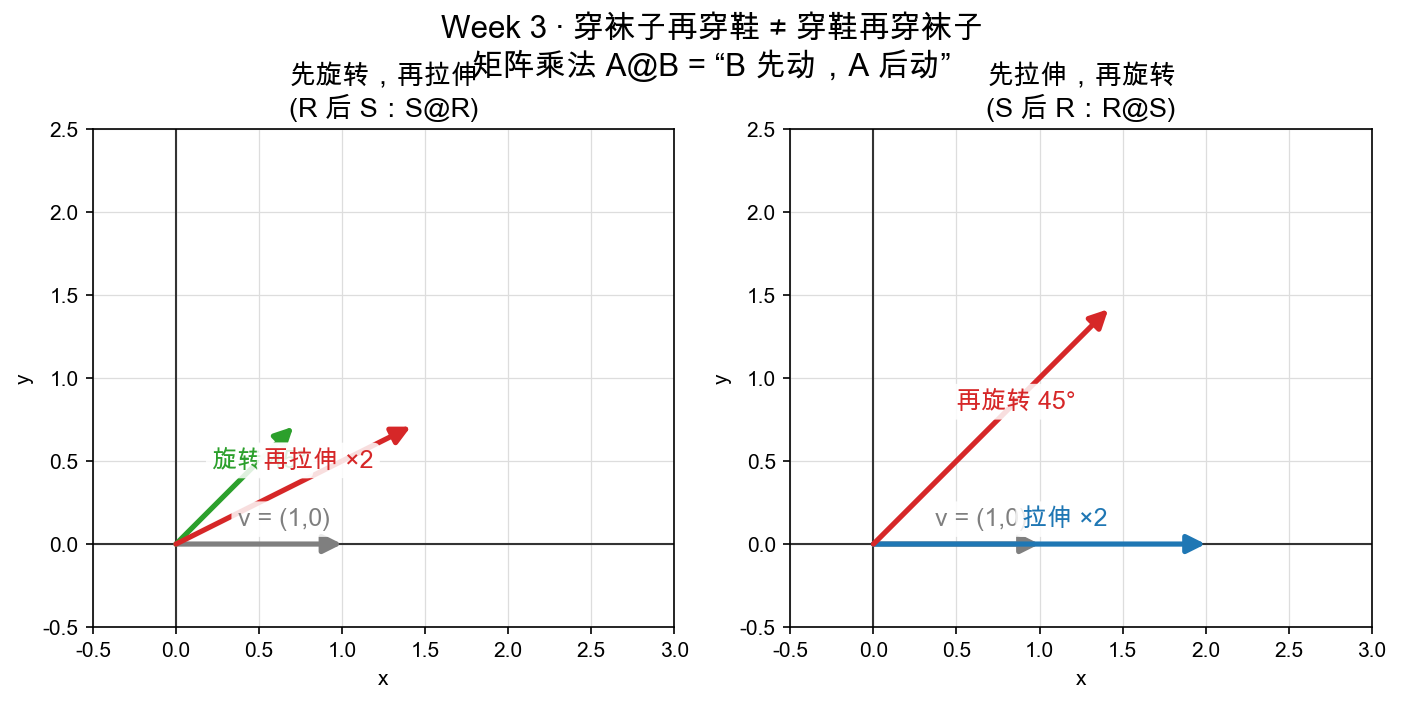
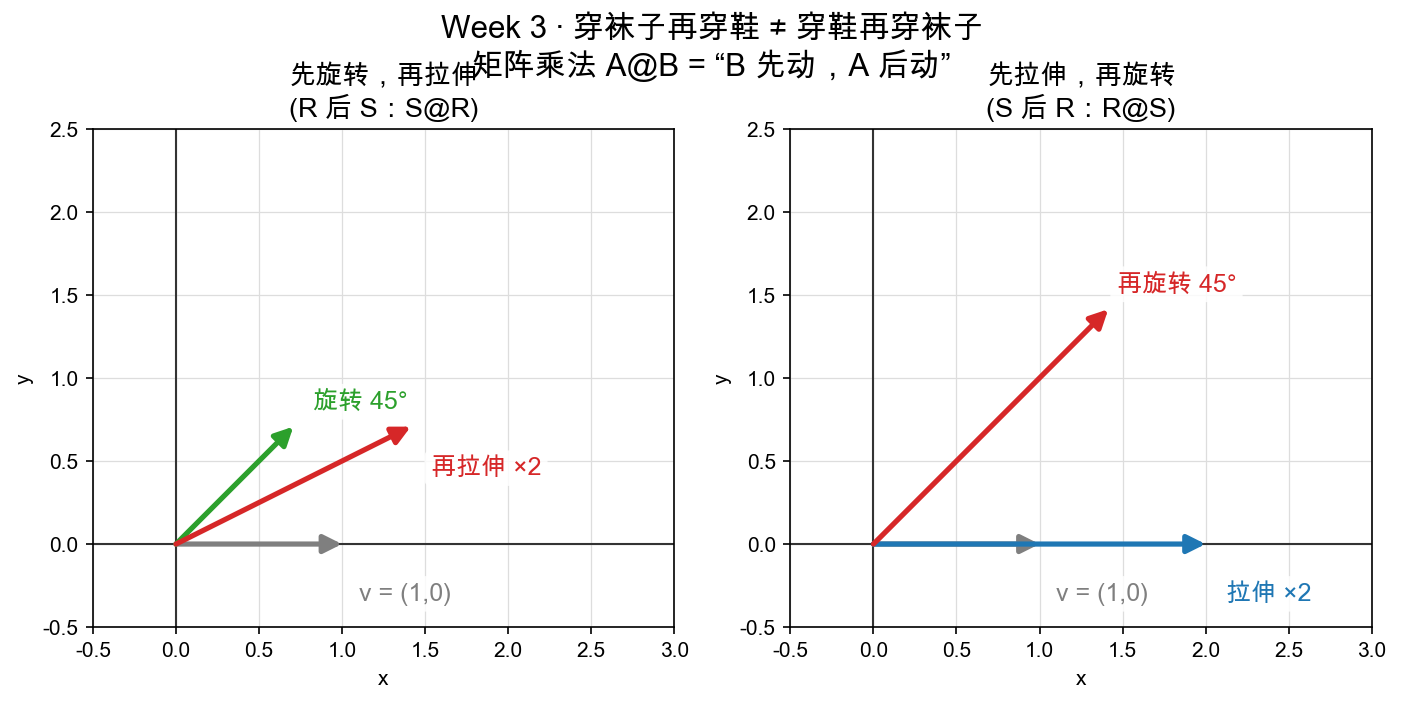
配图防重叠优化：全 27 张图标签加白底/移出箭杆；修正 Week 8 损失数值表述与断链

diff --git a/figures/gen_w4d2_relative_motion.py b/figures/gen_w4d2_relative_motion.py
@@ -12,8 +12,8 @@ for ax in (ax1, ax2):
 
 # 左：点动（坐标系不动）
 axes(ax1, xlim=(-0.5, 5), ylim=(-0.5, 5))
-point(ax1, (1, 1), color=C_BLUE, label="(1,1)")
-point(ax1, (2, 3), color=C_RED, label="(2,3)")
+point(ax1, (1, 1), color=C_BLUE, label="(1,1)", label_offset=(0.15, 0.15))
+point(ax1, (2, 3), color=C_RED, label="(2,3)", label_offset=(0.15, 0.15))
 ax1.annotate("", xy=(2, 3), xytext=(1, 1),
              arrowprops=dict(arrowstyle="-|>", color=C_RED, lw=2))
 ax1.set_title("方式一：点动\n把 (1,1) 挪到 (2,3)", fontsize=13)
@@ -22,18 +22,23 @@ ax1.set_title("方式一：点动\n把 (1,1) 挪到 (2,3)", fontsize=13)
 # 孟岩原例：点物理上还在 (1,1)，但新刻度把"1"标成"2"、"3"，
 # 于是同一个点的读数从 (1,1) 变成 (2,3)。
 axes(ax2, xlim=(-0.5, 5), ylim=(-0.5, 5))
-point(ax2, (1, 1), color=C_RED, label="点没动，物理位置还是 (1,1)")
+point(ax2, (1, 1), color=C_RED, label="点没动，物理位置还是 (1,1)",
+      label_offset=(0.35, 0.35))
 # 旧刻度（标准尺）淡色保留
 for k in range(1, 5):
     ax2.plot([k, k], [-0.06, 0.06], color="#bbbbbb", lw=1)
     ax2.plot([-0.06, 0.06], [k, k], color="#bbbbbb", lw=1)
 # 新刻度：原来标 1 的地方现在标 2（x 轴）、标 3（y 轴）
 ax2.scatter([1], [0], color="#888888", s=40, zorder=6)
-ax2.text(1, -0.4, "新刻度“2”", color="#888888", ha="center", fontsize=11)
+ax2.text(1, -0.45, "新刻度“2”", color="#888888", ha="center", fontsize=11,
+         bbox=dict(boxstyle="round,pad=0.2", fc="white", ec="none", alpha=0.85))
 ax2.scatter([0], [1], color="#888888", s=40, zorder=6)
-ax2.text(-0.32, 1, "新刻度“3”", color="#888888", va="center", fontsize=11)
-ax2.text(2.9, 1.6, "新尺子读数 = (2,3)\n（x 单位缩到 1/2，y 缩到 1/3）",
-         color=C_RED, fontsize=11)
+ax2.text(-0.75, 1, "新刻度“3”", color="#888888", va="center", fontsize=11,
+         bbox=dict(boxstyle="round,pad=0.2", fc="white", ec="none", alpha=0.85))
+ax2.text(2.7, 1.4, "新尺子读数 = (2,3)\n（x 单位缩到 1/2，y 缩到 1/3）",
+         color=C_RED, fontsize=11,
+         bbox=dict(boxstyle="round,pad=0.25", fc="white", ec="none", alpha=0.85),
+         zorder=6)
 ax2.set_title("方式二：尺子动\n刻度变细，点的读数自然变成 (2,3)", fontsize=13)
 
 fig.suptitle("Week 4 · 运动是相对的：变换对象 等价于 变换坐标系", fontsize=15)

diff --git a/figures/gen_w5d4_embedding_scatter.py b/figures/gen_w5d4_embedding_scatter.py
@@ -25,10 +25,14 @@ axes(ax, xlim=(-4, 4), ylim=(-3.5, 4.5))
 
 for w, p in words.items():
     ax.scatter([p[0]], [p[1]], color=C_GRAY, s=60, zorder=5)
-    ax.text(p[0] + 0.12, p[1] + 0.12, w, fontsize=12, color="#444444")
+    ax.text(p[0] + 0.12, p[1] + 0.12, w, fontsize=12, color="#444444",
+            bbox=dict(boxstyle="round,pad=0.15", fc="white", ec="none", alpha=0.8),
+            zorder=6)
 
 ax.scatter([q[0]], [q[1]], color=C_RED, s=90, zorder=6, marker="*")
-ax.text(q[0] + 0.15, q[1] + 0.15, f"{query}（查询）", color=C_RED, fontsize=12)
+ax.text(q[0] + 0.15, q[1] + 0.15, f"{query}（查询）", color=C_RED, fontsize=12,
+        bbox=dict(boxstyle="round,pad=0.15", fc="white", ec="none", alpha=0.85),
+        zorder=7)
 
 # 找最近邻
 names = list(words.keys())
@@ -36,14 +40,16 @@ vecs = list(words.values())
 best = names[nearest_index(q, vecs)]
 p = words[best]
 ax.plot([q[0], p[0]], [q[1], p[1]], color=C_ORANGE, lw=2, ls="--")
-ax.text((q[0] + p[0]) / 2 + 0.2, (q[1] + p[1]) / 2,
-        f"cos = {cosine_similarity(q, p):.2f}", color=C_ORANGE, fontsize=11)
+ax.text((q[0] + p[0]) / 2 + 0.2, (q[1] + p[1]) / 2 + 0.35,
+        f"cos = {cosine_similarity(q, p):.2f}", color=C_ORANGE, fontsize=11,
+        bbox=dict(boxstyle="round,pad=0.15", fc="white", ec="none", alpha=0.85))
 
 # 对照：与"汽车"的夹角大得多
 p2 = words["汽车"]
 ax.plot([q[0], p2[0]], [q[1], p2[1]], color=C_BLUE, lw=1.5, ls=":")
-ax.text((q[0] + p2[0]) / 2 - 1.6, (q[1] + p2[1]) / 2,
-        f"cos = {cosine_similarity(q, p2):.2f}", color=C_BLUE, fontsize=11)
+ax.text((q[0] + p2[0]) / 2 - 1.6, (q[1] + p2[1]) / 2 + 0.3,
+        f"cos = {cosine_similarity(q, p2):.2f}", color=C_BLUE, fontsize=11,
+        bbox=dict(boxstyle="round,pad=0.15", fc="white", ec="none", alpha=0.85))
 
 ax.set_title(f"Week 5 · “{query}”与“{best}”夹角最小 → 最相似\n相似度不看距离长短，只看方向（夹角）", fontsize=13)
 save(fig, "w5d4_embedding_scatter.png")

diff --git a/figures/gen_w4d1_two_readings.py b/figures/gen_w4d1_two_readings.py
@@ -15,20 +15,24 @@ for ax in (ax1, ax2):
 # 左：变换读法 —— M 把 v 搬到 Mv
 axes(ax1, xlim=(-0.5, 6), ylim=(-0.5, 6))
 v = (1, 1)
-vec(ax1, (0, 0), v, color=C_BLUE, label="v = (1,1)")
-vec(ax1, (0, 0), (2, 3), color=C_RED, label="Mv = (2,3)")
+vec(ax1, (0, 0), v, color=C_BLUE, label="v = (1,1)",
+    label_at_tip=True, label_offset=(0.15, -0.3))
+vec(ax1, (0, 0), (2, 3), color=C_RED, label="Mv = (2,3)",
+    label_at_tip=True, label_offset=(0.2, -0.2))
 ax1.set_title("读法 1：变换\nv 被 M 搬到 Mv", fontsize=13)
 
 # 右：坐标系读法 —— M 的列是两根新坐标轴
 axes(ax2, xlim=(-0.5, 6), ylim=(-0.5, 6))
-vec(ax2, (0, 0), (M[0][0], M[1][0]), color=C_GREEN, label="新 x 轴（刻度=2）")
+vec(ax2, (0, 0), (M[0][0], M[1][0]), color=C_GREEN, label="新 x 轴（刻度=2）",
+    label_at_tip=True, label_offset=(0.15, -0.35))
 vec(ax2, (0, 0), (M[0][1], M[1][1]), color=C_PURPLE,
-    label="新 y 轴（刻度=3）")
+    label="新 y 轴（刻度=3）", label_at_tip=True, label_offset=(-0.25, 0.2))
 # 新尺子下的网格
 for s in (1, 2):
     ax2.plot([s * 2, s * 2], [0, 6], color="#c8b5e0", lw=0.8, ls="--")
     ax2.plot([0, 6], [s * 3, s * 3], color="#c8b5e0", lw=0.8, ls="--")
-point(ax2, (2, 3), color=C_RED, label="新尺子读数 (1,1)\n= 标准读数 (2,3)")
+point(ax2, (2, 3), color=C_RED, label="新尺子读数 (1,1)\n= 标准读数 (2,3)",
+      label_offset=(0.3, 0.3))
 ax2.set_title("读法 2：坐标系\nM 的列向量 = 两根新坐标轴", fontsize=13)
 
 fig.suptitle("Week 4 · 变换点，还是变换尺子？—— 结果一样", fontsize=15)

diff --git a/figures/gen_w6d3_softmax.py b/figures/gen_w6d3_softmax.py
@@ -17,9 +17,11 @@ bars1 = ax1.bar(labels, scores, color=C_BLUE, alpha=0.8)
 ax1.axhline(0, color="#333333", lw=1)
 ax1.set_title("原始分数 Q·K：可正可负，加起来不是 1", fontsize=13)
 ax1.set_ylabel("分数")
+# 给负柱也留出底部空间，避免数值标签压到 x 轴刻度
+ax1.set_ylim(-2.6, 3.0)
 for b, s in zip(bars1, scores):
-    ax1.text(b.get_x() + b.get_width() / 2, s + (0.08 if s >= 0 else -0.28),
-             f"{s}", ha="center", fontsize=12)
+    ax1.text(b.get_x() + b.get_width() / 2, s + (0.08 if s >= 0 else -0.18),
+             f"{s}", ha="center", fontsize=12, color="#333333")
 
 bars2 = ax2.bar(labels, weights, color=C_ORANGE, alpha=0.85)
 ax2.set_ylim(0, 1.05)
@@ -27,9 +29,10 @@ ax2.set_title("softmax 之后：都是正数，加起来 = 1\n（“总注意力
 ax2.set_ylabel("权重")
 for b, w in zip(bars2, weights):
     ax2.text(b.get_x() + b.get_width() / 2, b.get_height() + 0.02,
-             f"{w:.2f}", ha="center", fontsize=12)
-ax2.text(0.02, 0.92, "0.01 + 0.05 + 0.94 = 1.00", transform=ax2.transAxes,
-         fontsize=12, color="#333333")
+             f"{w:.2f}", ha="center", fontsize=12, color="#333333")
+# 求和说明挪到右上角空白处，避免压住中间 0.94 柱的数值
+ax2.text(0.98, 0.93, "0.01 + 0.05 + 0.94 = 1.00", transform=ax2.transAxes,
+         fontsize=12, color="#333333", ha="right", va="top")
 
 fig.suptitle("Week 6 · softmax：分数最大的分到几乎全部注意力", fontsize=15)
 save(fig, "w6d3_softmax.png")

diff --git a/figures/gen_w3d3_compose.py b/figures/gen_w3d3_compose.py
@@ -18,17 +18,23 @@ for ax in (ax1, ax2):
 v = (1, 0)
 mid = matvec(R, v)
 fin = matvec(S, mid)
-vec(ax1, (0, 0), v, color=C_GRAY, label="v = (1,0)")
-vec(ax1, (0, 0), mid, color=C_GREEN, label="旋转 45°")
-vec(ax1, (0, 0), fin, color=C_RED, label="再拉伸 ×2")
+vec(ax1, (0, 0), v, color=C_GRAY, label="v = (1,0)",
+    label_at_tip=True, label_offset=(0.1, -0.3))
+vec(ax1, (0, 0), mid, color=C_GREEN, label="旋转 45°",
+    label_at_tip=True, label_offset=(0.12, 0.15))
+vec(ax1, (0, 0), fin, color=C_RED, label="再拉伸 ×2",
+    label_at_tip=True, label_offset=(0.12, -0.25))
 ax1.set_title("先旋转，再拉伸\n(R 后 S：S@R)", fontsize=13)
 
 # 右：先横向拉伸 2 倍，再旋转 45°
 mid2 = matvec(S, v)
 fin2 = matvec(R, mid2)
-vec(ax2, (0, 0), v, color=C_GRAY, label="v = (1,0)")
-vec(ax2, (0, 0), mid2, color=C_BLUE, label="拉伸 ×2")
-vec(ax2, (0, 0), fin2, color=C_RED, label="再旋转 45°")
+vec(ax2, (0, 0), v, color=C_GRAY, label="v = (1,0)",
+    label_at_tip=True, label_offset=(0.1, -0.3))
+vec(ax2, (0, 0), mid2, color=C_BLUE, label="拉伸 ×2",
+    label_at_tip=True, label_offset=(0.12, -0.3))
+vec(ax2, (0, 0), fin2, color=C_RED, label="再旋转 45°",
+    label_at_tip=True, label_offset=(0.05, 0.15))
 ax2.set_title("先拉伸，再旋转\n(S 后 R：R@S)", fontsize=13)
 
 fig.suptitle("Week 3 · 穿袜子再穿鞋 ≠ 穿鞋再穿袜子\n矩阵乘法 A@B = “B 先动，A 后动”", fontsize=15)

diff --git a/figures/gen_w2d3_two_bases.py b/figures/gen_w2d3_two_bases.py
@@ -21,18 +21,24 @@ for ax in (ax1, ax2):
 
 # 左：标准基读数
 axes(ax1, xlim=(-3, 6), ylim=(-3, 5))
-vec(ax1, (0, 0), v, color=C_RED, label=f"v = {tuple(v)}")
+vec(ax1, (0, 0), v, color=C_RED, label=f"v = {tuple(v)}",
+    label_at_tip=True, label_offset=(0.15, 0.1))
 ax1.plot([4, 4], [0, 3], color="#888888", lw=1, ls="--")
 ax1.plot([0, 4], [3, 3], color="#888888", lw=1, ls="--")
-vec(ax1, (0, 0), (1, 0), color="#999999", label="e1")
-vec(ax1, (0, 0), (0, 1), color="#999999", label="e2")
+vec(ax1, (0, 0), (1, 0), color="#999999", label="e1",
+    label_at_tip=True, label_offset=(0.05, -0.35))
+vec(ax1, (0, 0), (0, 1), color="#999999", label="e2",
+    label_at_tip=True, label_offset=(-0.3, 0.05))
 ax1.set_title("标准尺子：读数 (4, 3)\n向右 4 格、向上 3 格", fontsize=12)
 
 # 右：新基读数
 axes(ax2, xlim=(-3, 6), ylim=(-3, 5))
-vec(ax2, (0, 0), v, color=C_RED, label="同一支箭头")
-vec(ax2, (0, 0), b1, color=C_BLUE, label="b1 = (2,1)")
-vec(ax2, (0, 0), b2, color=C_GREEN, label="b2 = (-1,1)")
+vec(ax2, (0, 0), v, color=C_RED, label="同一支箭头",
+    label_at_tip=True, label_offset=(0.1, -0.35))
+vec(ax2, (0, 0), b1, color=C_BLUE, label="b1 = (2,1)",
+    label_at_tip=True, label_offset=(0.15, -0.4))
+vec(ax2, (0, 0), b2, color=C_GREEN, label="b2 = (-1,1)",
+    label_at_tip=True, label_offset=(-0.5, 0.1))
 # 沿新基的分解虚线
 sb1 = [s * b1[0], s * b1[1]]
 tb2 = [t * b2[0], t * b2[1]]

diff --git a/figures/gen_w5d1_dot_intuition.py b/figures/gen_w5d1_dot_intuition.py
@@ -13,16 +13,20 @@ v = [2.0, 0.0]
 fig, ax = plt.subplots(figsize=(7, 6))
 axes(ax, xlim=(-1, 5), ylim=(-1, 4))
 
-vec(ax, (0, 0), u, color=C_BLUE, label="u = (3,2)")
-vec(ax, (0, 0), v, color=C_GREEN, label="v = (2,0)")
+vec(ax, (0, 0), u, color=C_BLUE, label="u = (3,2)",
+    label_at_tip=True, label_offset=(0.15, 0.1))
+vec(ax, (0, 0), v, color=C_GREEN, label="v = (2,0)",
+    label_at_tip=True, label_offset=(0.1, -0.35))
 p = project_onto(u, v)
 ax.plot([u[0], p[0]], [u[1], p[1]], color=C_RED, lw=1.5, ls="--",
         label=f"u 在 v 上的投影（影子）长 {project_scalar(u, v):.0f}")
 ax.plot([0, p[0]], [0, p[1]], color=C_RED, lw=3.5)
 
-ax.text(1.55, 0.18, "投影长度 3", color=C_RED, fontsize=12)
-ax.text(2.9, 1.15, f"u·v = |u||v|cosθ = 3 × 2 = {dot(u, v):.0f}",
-        color="#333333", fontsize=12)
+ax.text(1.55, -0.4, "投影长度 3", color=C_RED, fontsize=12, ha="center")
+ax.text(3.0, 1.4, f"u·v = |u||v|cosθ = 3 × 2 = {dot(u, v):.0f}",
+        color="#333333", fontsize=12,
+        bbox=dict(boxstyle="round,pad=0.25", fc="white", ec="none", alpha=0.85),
+        zorder=6)
 ax.legend(loc="upper left", fontsize=10)
 ax.set_title("Week 5 · 点积的几何意义：影子的长度 × 对方长度", fontsize=13)
 save(fig, "w5d1_dot_intuition.png")

diff --git a/figures/gen_w2d1_lincomb.py b/figures/gen_w2d1_lincomb.py
@@ -12,16 +12,19 @@ axes(ax, xlim=(-1, 5), ylim=(-1, 5))
 e1 = (1, 0)
 e2 = (0, 1)
 s, t = 2, 3
-vec(ax, (0, 0), (s, 0), color=C_BLUE, label="2·e1")
-vec(ax, (0, 0), (0, t), color=C_GREEN, label="3·e2")
-vec(ax, (0, 0), (s, t), color=C_RED, label="2·e1 + 3·e2 = (2,3)")
+vec(ax, (0, 0), (s, 0), color=C_BLUE, label="2·e1",
+    label_at_tip=True, label_offset=(0.1, -0.4))
+vec(ax, (0, 0), (0, t), color=C_GREEN, label="3·e2",
+    label_at_tip=True, label_offset=(-0.35, 0.2))
+vec(ax, (0, 0), (s, t), color=C_RED, label="2·e1 + 3·e2 = (2,3)",
+    label_at_tip=True, label_offset=(0.15, 0.1))
 
 # 平行四边形虚线
 ax.plot([s, s], [0, t], color="#888888", lw=1, ls="--")
 ax.plot([0, s], [t, t], color="#888888", lw=1, ls="--")
 point(ax, (s, t), color=C_RED)
 dashed_line(ax, (s, t))
-ax.text(0.45, 0.15, "e1", color=C_BLUE, fontsize=12)
-ax.text(-0.05, 1.45, "e2", color=C_GREEN, fontsize=12)
+ax.text(0.45, -0.35, "e1", color=C_BLUE, fontsize=12, ha="center")
+ax.text(-0.4, 1.55, "e2", color=C_GREEN, fontsize=12, ha="center", va="center")
 ax.set_title("线性组合：先伸缩，再相加\n2·(1,0) + 3·(0,1) = (2,3)", fontsize=13)
 save(fig, "w2d1_lincomb.png")

diff --git a/figures/gen_w4d6_pca_intuition.py b/figures/gen_w4d6_pca_intuition.py
@@ -21,10 +21,14 @@ fig, ax = plt.subplots(figsize=(7, 6))
 axes(ax, xlim=(-4.5, 4.5), ylim=(-3.5, 3.5))
 ax.scatter(points[:, 0], points[:, 1], s=18, color="#9ecae1", label="数据点")
 
-vec(ax, (0, 0), (1, 0), color=C_GRAY, label="原基 e1")
-vec(ax, (0, 0), (0, 1), color=C_GRAY, label="原基 e2")
-vec(ax, (0, 0), u * 4, color=C_BLUE, label="新基：数据最分散的方向（主轴）")
-vec(ax, (0, 0), u_perp * 2, color=C_GREEN, label="新基：与主轴垂直")
+vec(ax, (0, 0), (1, 0), color=C_GRAY, label="原基 e1",
+    label_at_tip=True, label_offset=(0.1, -0.35))
+vec(ax, (0, 0), (0, 1), color=C_GRAY, label="原基 e2",
+    label_at_tip=True, label_offset=(-0.3, 0.1))
+vec(ax, (0, 0), u * 4, color=C_BLUE, label="新基：数据最分散的方向（主轴）",
+    label_at_tip=True, label_offset=(0.15, 0.15))
+vec(ax, (0, 0), u_perp * 2, color=C_GREEN, label="新基：与主轴垂直",
+    label_at_tip=True, label_offset=(-0.15, -0.4))
 
 ax.set_title("PCA 的直觉：换一组基，让数据“躺”到主轴上\n换基后每个词的主要信息集中在少数几根轴上", fontsize=12.5)
 save(fig, "w4d6_pca_intuition.png")

diff --git a/figures/gen_w3d1_transforms.py b/figures/gen_w3d1_transforms.py
@@ -25,12 +25,14 @@ for ax, (title, M, lim) in zip(axs, transforms):
     ax.grid(True, color="#dddddd", lw=0.6)
     # 原图（灰）
     ax.fill(*zip(*(house + [house[0]])), color=C_GRAY, alpha=0.25)
-    ax.text(0.5, 1.8, "原图", color=C_GRAY, ha="center", fontsize=11)
+    ax.text(0.5, 1.85, "原图", color=C_GRAY, ha="center", fontsize=11,
+            bbox=dict(boxstyle="round,pad=0.15", fc="white", ec="none", alpha=0.8))
     # 变换后（蓝）
     new_house = apply_to_points(M, house)
     ax.fill(*zip(*(new_house + [new_house[0]])), color=C_BLUE, alpha=0.35)
-    ax.text(sum(p[0] for p in new_house) / 5, sum(p[1] for p in new_house) / 5 + 0.5,
-            "变换后", color=C_BLUE, ha="center", fontsize=11)
+    ax.text(sum(p[0] for p in new_house) / 5, sum(p[1] for p in new_house) / 5 + 0.55,
+            "变换后", color=C_BLUE, ha="center", fontsize=11,
+            bbox=dict(boxstyle="round,pad=0.15", fc="white", ec="none", alpha=0.8))
     ax.set_title(title, fontsize=13)
 
 fig.suptitle("Week 3 · 矩阵乘向量 = 对整个图形施加一次变换", fontsize=15)

diff --git a/figures/gen_w2d2_span.py b/figures/gen_w2d2_span.py
@@ -24,13 +24,17 @@ for s in range(-6, 7):
                 [p[1] - 4 * b1[1], p[1] + 4 * b1[1]],
                 color="#cccccc", lw=0.6, zorder=1)
 
-vec(ax, (0, 0), b1, color=C_BLUE, label="b1 = (2,1)")
-vec(ax, (0, 0), b2, color=C_GREEN, label="b2 = (-1,1)")
+vec(ax, (0, 0), b1, color=C_BLUE, label="b1 = (2,1)",
+    label_at_tip=True, label_offset=(0.15, -0.35))
+vec(ax, (0, 0), b2, color=C_GREEN, label="b2 = (-1,1)",
+    label_at_tip=True, label_offset=(-0.4, 0.1))
 
 # 示例：2*b1 + 1*b2
 p = 2 * b1 + 1 * b2
 ax.scatter([p[0]], [p[1]], color=C_ORANGE, s=50, zorder=5)
-ax.text(p[0] + 0.3, p[1] + 0.3, "2·b1 + 1·b2", color=C_ORANGE, fontsize=12)
+ax.text(p[0] + 0.3, p[1] - 0.4, "2·b1 + 1·b2", color=C_ORANGE, fontsize=12,
+        bbox=dict(boxstyle="round,pad=0.25", fc="white", ec="none", alpha=0.85),
+        zorder=6)
 
 ax.set_title("张成：用 b1、b2 伸缩相加，能铺满整个平面\n（网格上每个交叉点都是一个线性组合）", fontsize=13)
 save(fig, "w2d2_span.png")

diff --git a/figures/gen_w6d5_rope_rotation.py b/figures/gen_w6d5_rope_rotation.py
@@ -22,10 +22,13 @@ for m in range(4):
     v = rotate_2d([1.0, 0.0], m * theta)
     ax1.annotate("", xy=(v[0], v[1]), xytext=(0, 0),
                  arrowprops=dict(arrowstyle="-|>", color=colors[m], lw=2.5))
-    ax1.text(v[0] * 1.22, v[1] * 1.22, f"位置 {m}\n转 {m * theta}°",
-             color=colors[m], fontsize=11, ha="center", va="center")
-ax1.set_xlim(-1.6, 1.6)
-ax1.set_ylim(-1.6, 1.6)
+    # 标签放在单位圆外、沿径向错开，四支箭头不互相压
+    ax1.text(v[0] * 1.55, v[1] * 1.55, f"位置 {m}\n转 {m * theta}°",
+             color=colors[m], fontsize=10, ha="center", va="center",
+             bbox=dict(boxstyle="round,pad=0.2", fc="white", ec="none", alpha=0.85),
+             zorder=6)
+ax1.set_xlim(-2.2, 2.2)
+ax1.set_ylim(-2.2, 2.2)
 ax1.set_title("每个位置转不同的角度（θ=30°）", fontsize=13)
 
 # 右：q_m·k_n 只与 (m-n) 有关
